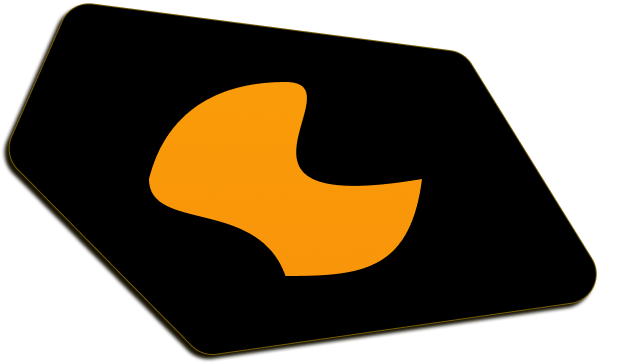
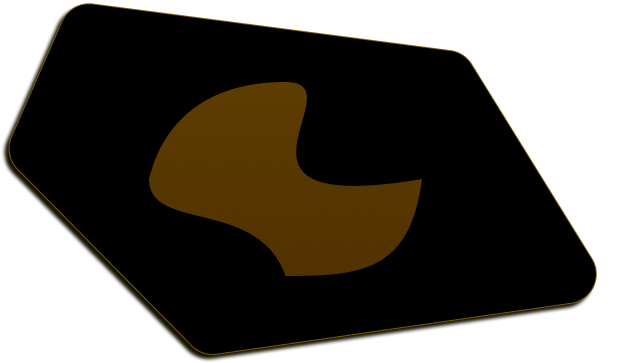
color ch

Changed region(s): [[0.2156, 0.2121, 0.7083, 0.7576]]

diff --git a/sections/about-us-section.tsx b/sections/about-us-section.tsx
@@ -10,12 +10,12 @@ export default function AboutUsSection() {
     return (
         <section 
         id="about-us"
-        className="page-section font-irishgrover border border-[#F9890A] bstd_orange-gradient-bg w-full flex items-center gap-3 py-5 md:py-10"
+        className="page-section font-irishgrover  border-[#513F01] bstd_orange-gradient-bg w-full flex items-center gap-3 py-5 md:py-10"
     >
       <section className="w-full flex flex-col items-center md:items-start gap-3">
         <div className="flex flex-col items-center md:items-start  gap-3">
-          <h1 id="hero-title" className="text-black font-extrabold text-3xl  tracking-tighter"> ABOUT US </h1>
-            <p className="text-xl md:text-2xl font-kanit text-black text-center md:text-right">
+          <h1 id="hero-title" className="orange_gradient font-extrabold text-3xl  tracking-tighter"> ABOUT US </h1>
+            <p className="text-xl md:text-2xl font-kanit text-white text-center md:text-right">
               BellzStudio was born from an appreciation for what true collaboration can achieve and a desire to make a real impact.
               At its core, it&apos;s about teaming up to turn ideas into impactful software — whether refining existing solutions or building something new.
 
@@ -35,11 +35,11 @@ export default function AboutUsSection() {
           </SmoothScrollButton>
           
             
-          <span className="text-black flex gap-2 items-center">
+          <span className="orange-gradient flex gap-2 items-center">
             <Link href="/about-me" className=" ">
               Resume
             </Link> 
-              <ArrowRightIcon className="w-4 h-8 hover:animate-swivvleV  font-medium" />
+              <ArrowRightIcon className="w-4 h-8 hover:animate-swivvleV text-orange-500 font-medium" />
           </span>      
 
         </span>

diff --git a/sections/notes-section.tsx b/sections/notes-section.tsx
@@ -9,16 +9,16 @@ export default function NotesSection() {
     return (
         <section 
             id="notes"
-            className="page-section orange-gradient-bg w-full flex  flex-col gap-2 p-10 lg:p-16 justify-center"
+            className="page-section tbbstd_orange-gradient-bg  w-full flex  flex-col gap-2 p-10 lg:p-16 justify-center"
         >
         <section className="w-full flex flex-col font-irishgrover justify-center items-center gap-3">
             <section className="w-full flex text-center justify-center items-center flex-col  gap-4">
-                    <span className="text-xl text-center leading-loose w-full md:w-2/3  md:text-2xl text-black font-normal font-kanit ">
+                    <span className="text-xl text-center leading-loose w-full md:w-2/3  md:text-2xl text-white font-normal font-kanit ">
                     This is my personal journal — a space where I think out loud, document my 
                     thought process while brainstorming, and leave notes on what I plan to build
                      next and how I intend to approach it.
                     </span>
-                    <Link href="/notes" className="flex items-center bg-white bg-opacity-20 text-white mt-8 gap-2 hover:scale-[110%] hover:animate-swivvleH transition-all duration-800 ease-in-out shadow shadow-orange-500 p-3 md:p-4 dark:text-black  rounded-full">
+                    <Link href="/notes" className="flex items-center bg-white bg-opacity-10 text-white mt-8 gap-2 hover:scale-[110%] hover:animate-swivvleH transition-all duration-800 ease-in-out shadow shadow-orange-900 p-3 md:p-4  rounded-full">
                         <Image 
                             src="/assets/images/b91e1131ca20f6369aa68d21cb3a8960.gif" 
                             className="object-contain rounded-full w-10 h-10" 

diff --git a/sections/contact-section.tsx b/sections/contact-section.tsx
@@ -35,9 +35,9 @@ export default function ContactSection() {
     return (
         <section
             id="contact"
-            className="page-section bg-white w-full flex flex-col gap-10 md:gap-16 lg:gap-20"
+            className="page-section rbstd_orange-gradient-bg  w-full flex flex-col gap-10 md:gap-16 lg:gap-20"
         >
-            <h1 className=" w-full flex text-black irishgrover uppercase font-extrabold justify-center text-5xl tracking-tighter text-center">
+            <h1 className=" w-full flex orange_gradient font-irishgrover uppercase font-extrabold justify-center text-5xl tracking-tighter text-center">
                 Reach Out To Me
             </h1>
             <section className="w-full flex flex-col font- md:flex-row justify-between items-center gap-3 md:gap-5 lg:gap-8">
@@ -75,14 +75,15 @@ export default function ContactSection() {
                 <SmoothScrollButton pixels={400} className="w-full hover:animate-swivvleV">
                     <Link
                         href={"#dev-stories"}
-                        className="flex flex-col gap-1 underline text-black items-center"
+                        className="flex flex-col gap-1 underline text-white items-center"
                     >
                         <>Projects & Dev Stories</>
                         <Image 
-                            src="/assets/icons/down_line.png" 
-                            className="w-[150px] h-[15px] font-medium"
+                            src="/assets/icons/white_line.png" 
+                            className="w-[150px] h-[15px]"
                             width={4000}
                             height={4000}
+                            priority={true}
                             alt="down" 
                         />
                     </Link>

diff --git a/components/note-entry-card.tsx b/components/note-entry-card.tsx
@@ -63,7 +63,7 @@ const NoteEntryCard = (props: NoteEntryCardProps) => {
   };
 
   return (
-    <div className="orange-gradient-bg w-full rounded-lg p-3 h-full ">
+    <div className="tbbstd_orange-gradient-bg w-full rounded-lg p-3 h-full ">
       <div className="flex justify-between items-start gap-5">
         <div
           className="flex-1 flex justify-start items-center gap-3 cursor-pointer"
@@ -79,12 +79,12 @@ const NoteEntryCard = (props: NoteEntryCardProps) => {
           />
 
           <div className="flex flex-col">
-            <h3 className="font-satoshi font-semibold text-black">
+            <h3 className="text-lg md:text-xl font-kanit font-semibold text-white">
               <Link href={`/notes/${post._id}`} className="cursor-pointer">
                 {post.title}
               </Link>
             </h3>
-            <p className="font-satochi text-xs text-gray-700">
+            <p className="font-satochi text-xs text-gray-500">
               Posted {timeAgo(post.written_at)}
             </p>
           </div>
@@ -118,7 +118,7 @@ const NoteEntryCard = (props: NoteEntryCardProps) => {
       
 
       <p 
-        className="my-4 font-irishgrover text-lg line-clamp-4 md:text-xl text-black font-medium"
+        className="my-4 font-kanit text-lg line-clamp-4 md:text-xl text-white font-light"
         >
           {post.body}
       </p>

diff --git a/app/globals.css b/app/globals.css
@@ -101,10 +101,18 @@ body {
   @apply bg-gradient-to-b from-[#FDC709] to-[#F9890A];
 }
 .bstd_orange-gradient-bg {
-  @apply bg-gradient-to-r from-[#FDC709] to-[#F9890A];
+  @apply bg-gradient-to-r from-[#3F3101] to-[#2F1900];
 }
+.rbstd_orange-gradient-bg {
+  @apply bg-gradient-to-r from-[#2F1900] to-[#3F3101];
+}
+
+.tbbstd_orange-gradient-bg {
+  @apply bg-gradient-to-t from-[#2F1900] to-[#3F3101];
+}
+
 .orange-gradient {
-  @apply bg-gradient-to-r from-yellow-500 via-orange-500 to-orange-600 bg-clip-text text-transparent;
+  @apply bg-gradient-to-r from-yellow-500 via-orange-600 to-orange-400 bg-clip-text text-transparent;
 }
 
 a {

diff --git a/sections/new-hero-section.tsx b/sections/new-hero-section.tsx
@@ -37,7 +37,7 @@ export const NewHeroSection= () => {
               <ScrollDownAnimation 
                   key={link.id} 
                   targetId={link.id} 
-                  className="w-full p-3 md:p-4 flex hover:animate-swivvleV  flex-col  rounded-[20px] border-[#F9890A] gap-3 shadow shadow-orange-500  items-center"
+                  className="w-full p-3 md:p-4 flex hover:animate-swivvleV  flex-col  rounded-[40px] border-[#110a02] gap-3 shadow shadow-black  items-center"
                   child={
                 <>
                   <span className="text-white text-xs md:text-lg font-irishgrover">{link.name}</span>

diff --git a/app/dev-stories/page.tsx b/app/dev-stories/page.tsx
@@ -34,7 +34,7 @@ export const metadata: Metadata = {
 export default function DevStoriesHome() {
     const STORIES = DEV_STORIES
     return (
-        <div className="w-full h-full flex flex-col justify-center bg-black">
+        <div className="w-full h-full flex flex-col justify-center ">
             <span className="w-full flex items-center justify-between px-3 md:px-16 lg:px-24 mx-auto">
               <h1 className="text-5xl md:text-[100px] font-irishgrover font-extrabold orange_gradient">Dev Stories</h1>
               <Link href="#support-us" className="w-auto flex gap-2 items-center">

diff --git a/app/about-me/page.tsx b/app/about-me/page.tsx
@@ -4,7 +4,7 @@ import Link from "next/link";
 
 export default function AboutMe() {
     return (
-        <div className="bg-white w-full text-gray-900 font-kanit">
+        <div className="bg-slate-50 animate-fadeIn w-full text-gray-900 font-kanit">
         <div className="w-full h-auto px-10 py-3 md:px-36 sm:py-5 space-y-5">
             {/* Bio Section */}
             <section id="bio" className="w-full rounded-3xl gap-3 p-3 flex justify-between items-start">
